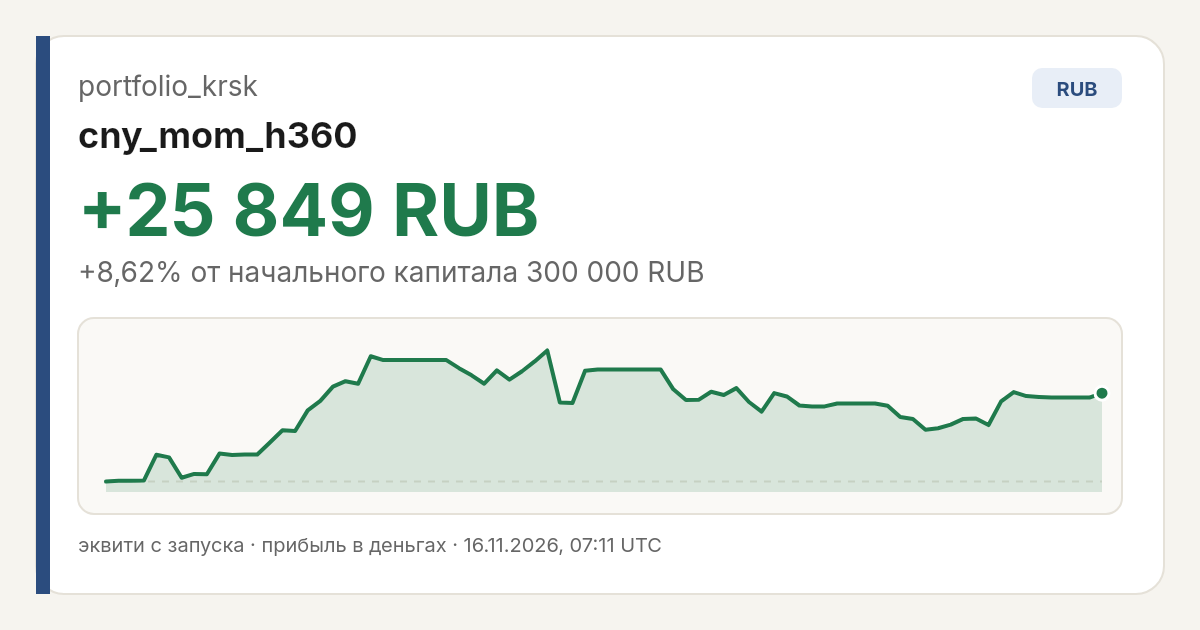
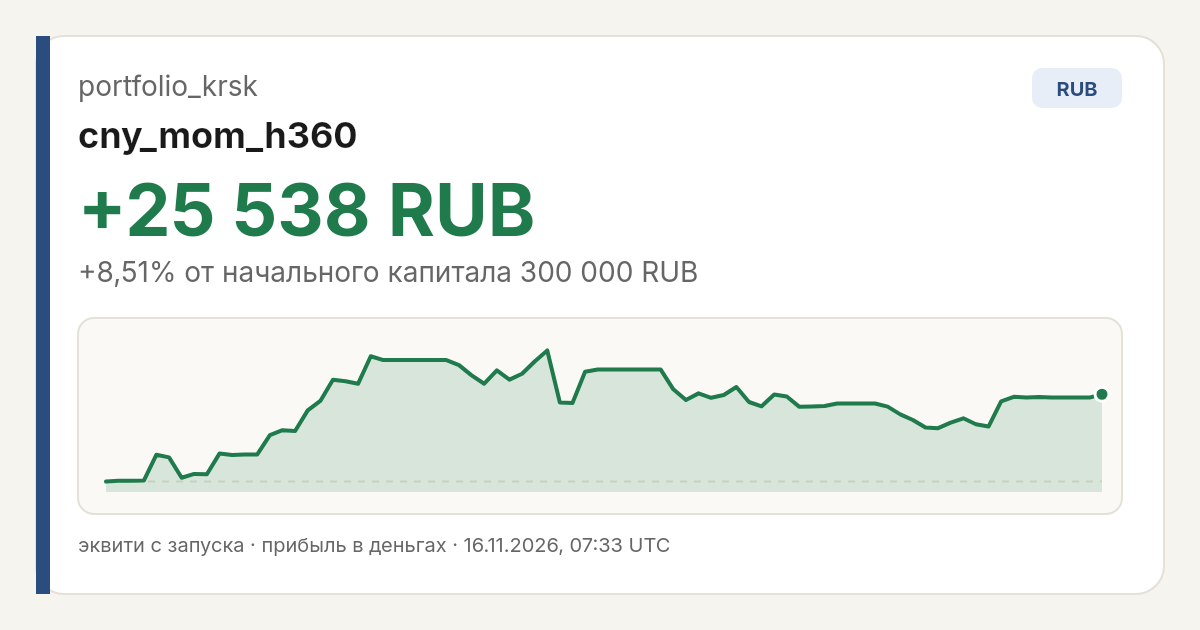
sync equity data 2026-11-16T07:33:54Z

diff --git a/share.html b/share.html
@@ -4,23 +4,23 @@
     <meta charset="UTF-8" />
     <meta name="viewport" content="width=device-width, initial-scale=1.0" />
     <title>portfolio_krsk - cny_mom_h360</title>
-    <meta name="description" content="cny_mom_h360: +25 849 RUB (+8,62%) с запуска. Лидер обложки выбран по доходности в процентах от начального капитала; суммы в разных валютах не сравниваются." />
+    <meta name="description" content="cny_mom_h360: +25 538 RUB (+8,51%) с запуска. Лидер обложки выбран по доходности в процентах от начального капитала; суммы в разных валютах не сравниваются." />
     <meta property="og:title" content="portfolio_krsk - cny_mom_h360" />
-    <meta property="og:description" content="cny_mom_h360: +25 849 RUB (+8,62%) с запуска. Лидер обложки выбран по доходности в процентах от начального капитала; суммы в разных валютах не сравниваются." />
+    <meta property="og:description" content="cny_mom_h360: +25 538 RUB (+8,51%) с запуска. Лидер обложки выбран по доходности в процентах от начального капитала; суммы в разных валютах не сравниваются." />
     <meta property="og:url" content="https://portfolio-krsk.vercel.app/" />
     <meta property="og:site_name" content="portfolio_krsk" />
     <meta property="og:locale" content="ru_RU" />
     <meta property="og:type" content="website" />
-    <meta property="og:image" content="https://varshavskiy1-beep.github.io/portfolio-krsk/og-cover.jpg?v=202611160711" />
-    <meta property="og:image:secure_url" content="https://varshavskiy1-beep.github.io/portfolio-krsk/og-cover.jpg?v=202611160711" />
+    <meta property="og:image" content="https://varshavskiy1-beep.github.io/portfolio-krsk/og-cover.jpg?v=202611160733" />
+    <meta property="og:image:secure_url" content="https://varshavskiy1-beep.github.io/portfolio-krsk/og-cover.jpg?v=202611160733" />
     <meta property="og:image:type" content="image/jpeg" />
     <meta property="og:image:width" content="1200" />
     <meta property="og:image:height" content="630" />
-    <link rel="image_src" href="https://varshavskiy1-beep.github.io/portfolio-krsk/og-cover.jpg?v=202611160711" />
+    <link rel="image_src" href="https://varshavskiy1-beep.github.io/portfolio-krsk/og-cover.jpg?v=202611160733" />
     <meta name="twitter:card" content="summary_large_image" />
     <meta name="twitter:title" content="portfolio_krsk - cny_mom_h360" />
-    <meta name="twitter:description" content="cny_mom_h360: +25 849 RUB (+8,62%) с запуска. Лидер обложки выбран по доходности в процентах от начального капитала; суммы в разных валютах не сравниваются." />
-    <meta name="twitter:image" content="https://varshavskiy1-beep.github.io/portfolio-krsk/og-cover.jpg?v=202611160711" />
+    <meta name="twitter:description" content="cny_mom_h360: +25 538 RUB (+8,51%) с запуска. Лидер обложки выбран по доходности в процентах от начального капитала; суммы в разных валютах не сравниваются." />
+    <meta name="twitter:image" content="https://varshavskiy1-beep.github.io/portfolio-krsk/og-cover.jpg?v=202611160733" />
     <meta http-equiv="refresh" content="0; url=/" />
     <script>location.replace("/")</script>
     <style>
@@ -49,9 +49,9 @@
   </head>
   <body>
     <main>
-      <img src="https://varshavskiy1-beep.github.io/portfolio-krsk/og-cover.jpg?v=202611160711" alt="portfolio_krsk - cny_mom_h360" width="1200" height="630" />
+      <img src="https://varshavskiy1-beep.github.io/portfolio-krsk/og-cover.jpg?v=202611160733" alt="portfolio_krsk - cny_mom_h360" width="1200" height="630" />
       <noscript>
-        <p>cny_mom_h360: +25 849 RUB (+8,62%) с запуска. Лидер обложки выбран по доходности в процентах от начального капитала; суммы в разных валютах не сравниваются.</p>
+        <p>cny_mom_h360: +25 538 RUB (+8,51%) с запуска. Лидер обложки выбран по доходности в процентах от начального капитала; суммы в разных валютах не сравниваются.</p>
         <p><a href="/">Открыть кабинет portfolio_krsk</a></p>
       </noscript>
     </main>
